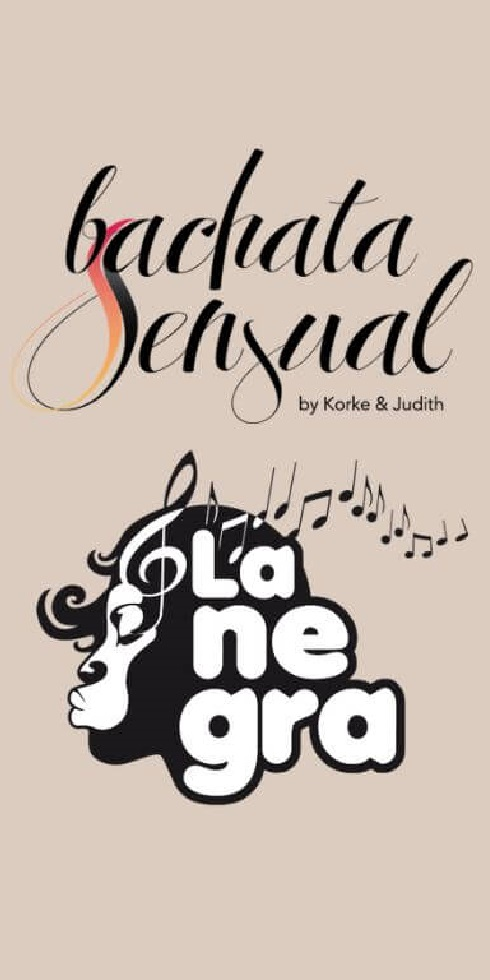
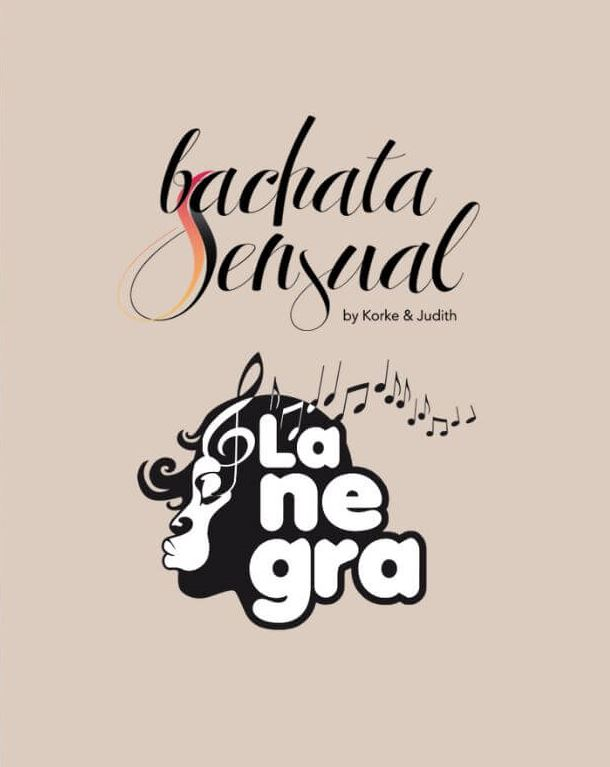
update slide p

diff --git a/assets/css/style.css b/assets/css/style.css
@@ -534,24 +534,12 @@ h6 {
   #hero h2 {
     font-size: 28px;
   }
-
-  /*--------------------------------------------------------------
-    .mobile-bild {
-      display: none;
-    }
---------------------------------------------------------------*/
 }
 
 @media (min-width: 1024px) {
   #hero p {
     width: 50%;
   }
-
-  /*--------------------------------------------------------------
-.desktop-bild {
-  display: none;
-}
-  --------------------------------------------------------------*/
 
   #hero .carousel-control-prev,
   #hero .carousel-control-next {

diff --git a/index.html b/index.html
@@ -131,7 +131,7 @@
           <!-- Slide 3 -->
           <div class="carousel-item">
               <picture>
-                <source media="(orientation: portrait)" srcset="assets/img/slide/slide-99.jpeg">
+                <source media="(orientation: portrait)" srcset="assets/img/slide/slide-02_p.jpeg">
                 <img src="assets/img/slide/slide-02.jpeg" alt="Image description">
               </picture>
 
